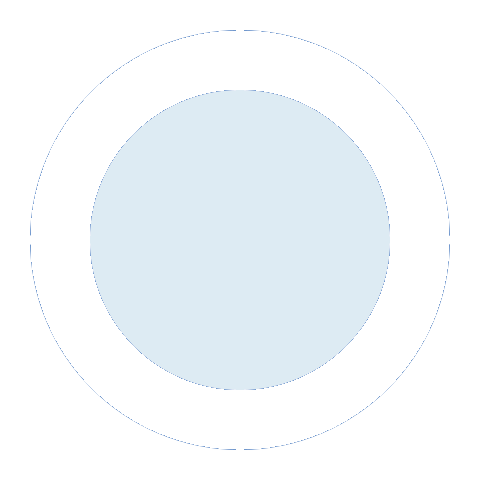
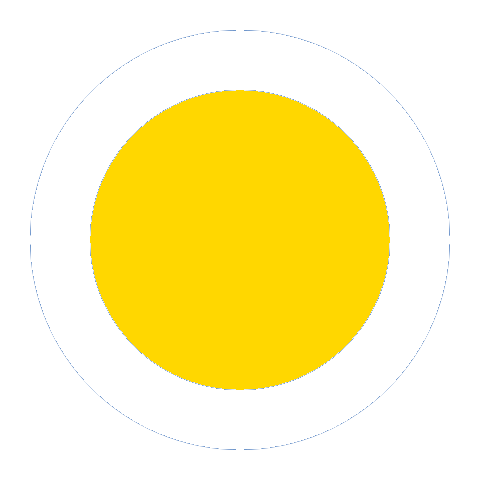
turned star ratings yellow

diff --git a/pages/event-page.html b/pages/event-page.html
@@ -177,7 +177,8 @@
                                 <div class="reviewer-info">
                                     John S.&nbsp;&#8226;&nbsp;
                                     4th year&nbsp;&#8226;&nbsp;
-                                    Has a job/internship
+                                    Intern at Facebook 
+                                    <img src='../images/check%20mark.png'>
                                 </div>
                                 
                                 <!-- image of rating -->
@@ -207,8 +208,7 @@
 
                                 <div class="reviewer-info">
                                     Nathan N.&nbsp;&#8226;&nbsp;
-                                    2nd year&nbsp;&#8226;&nbsp;
-                                    Does not have a job/internship
+                                    2nd year
                                 </div>
 
                                 <!-- image of rating -->
@@ -238,8 +238,7 @@
 
                                 <div class="reviewer-info">
                                     Leslie K.&nbsp;&#8226;&nbsp;
-                                    4th year&nbsp;&#8226;&nbsp;
-                                    Does not have a job/internship
+                                    4th year
                                 </div>
                                 
                                 <!-- image of rating -->
@@ -251,7 +250,7 @@
                                     <img src="../images/star-rating-filled-alt.png">
                                 </div>
 
-                                <div class="advice">
+                                <div class="advice">s
                                     <p>Lorem ipsum dolor sit amet, consectetur adipiscing elit, sed do eiusmod tempor incididunt ut labore et dolore magna aliqua. Ut enim ad minim veniam, quis nostrud exercitation ullamco laboris nisi ut aliquip ex ea commodo consequat. Duis aute irure dolor in reprehenderit in voluptate velit esse cillum dolore eu fugiat nulla pariatur. Excepteur sint occaecat cupidatat non proident, sunt in culpa qui officia deserunt mollit anim id est laborum.</p>
 
                                     <span class="date">8/26/15</span>
